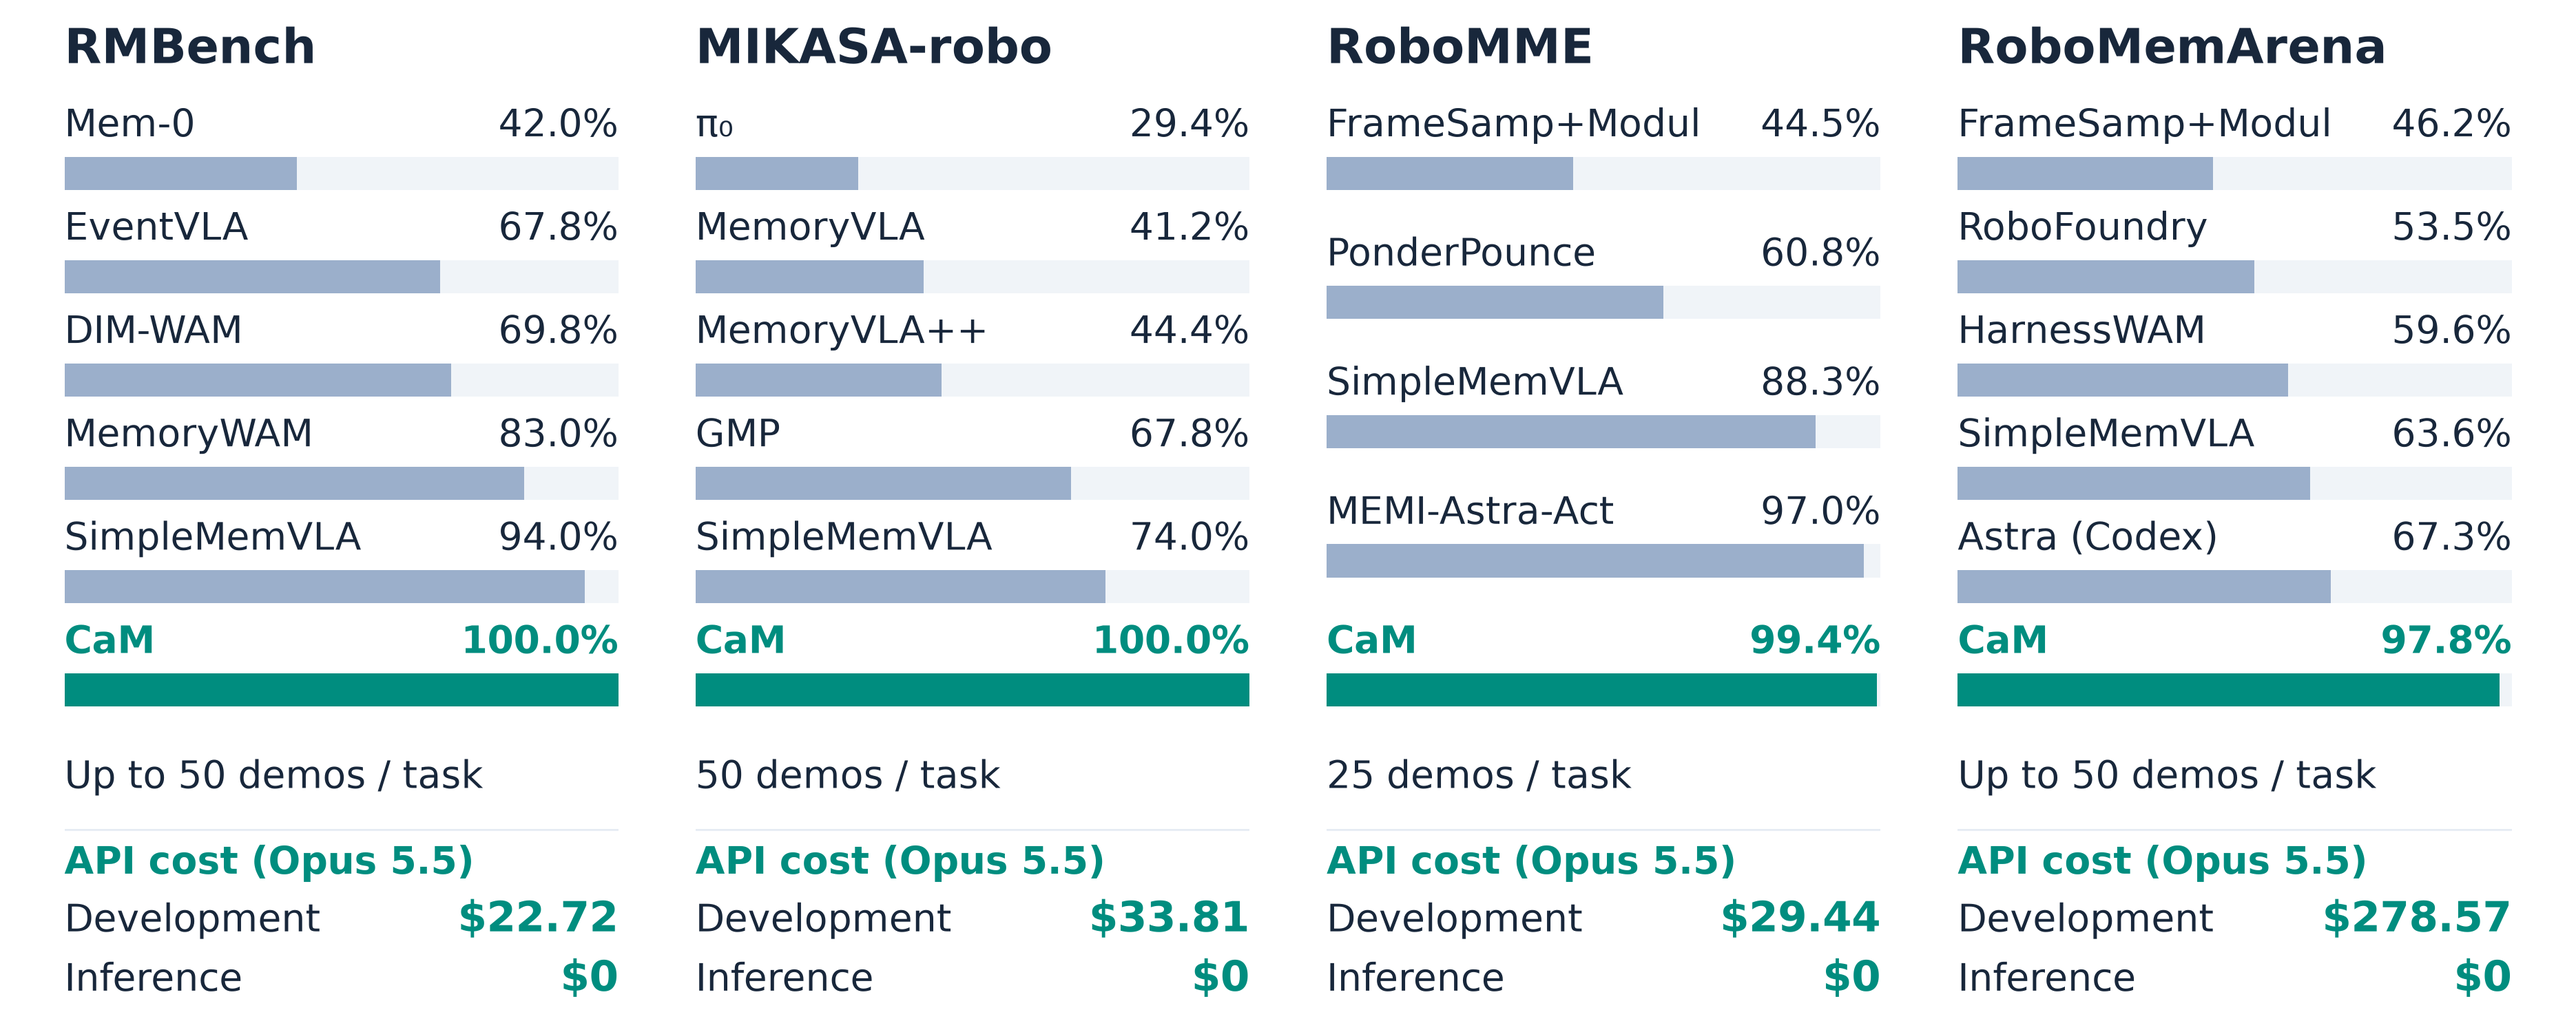
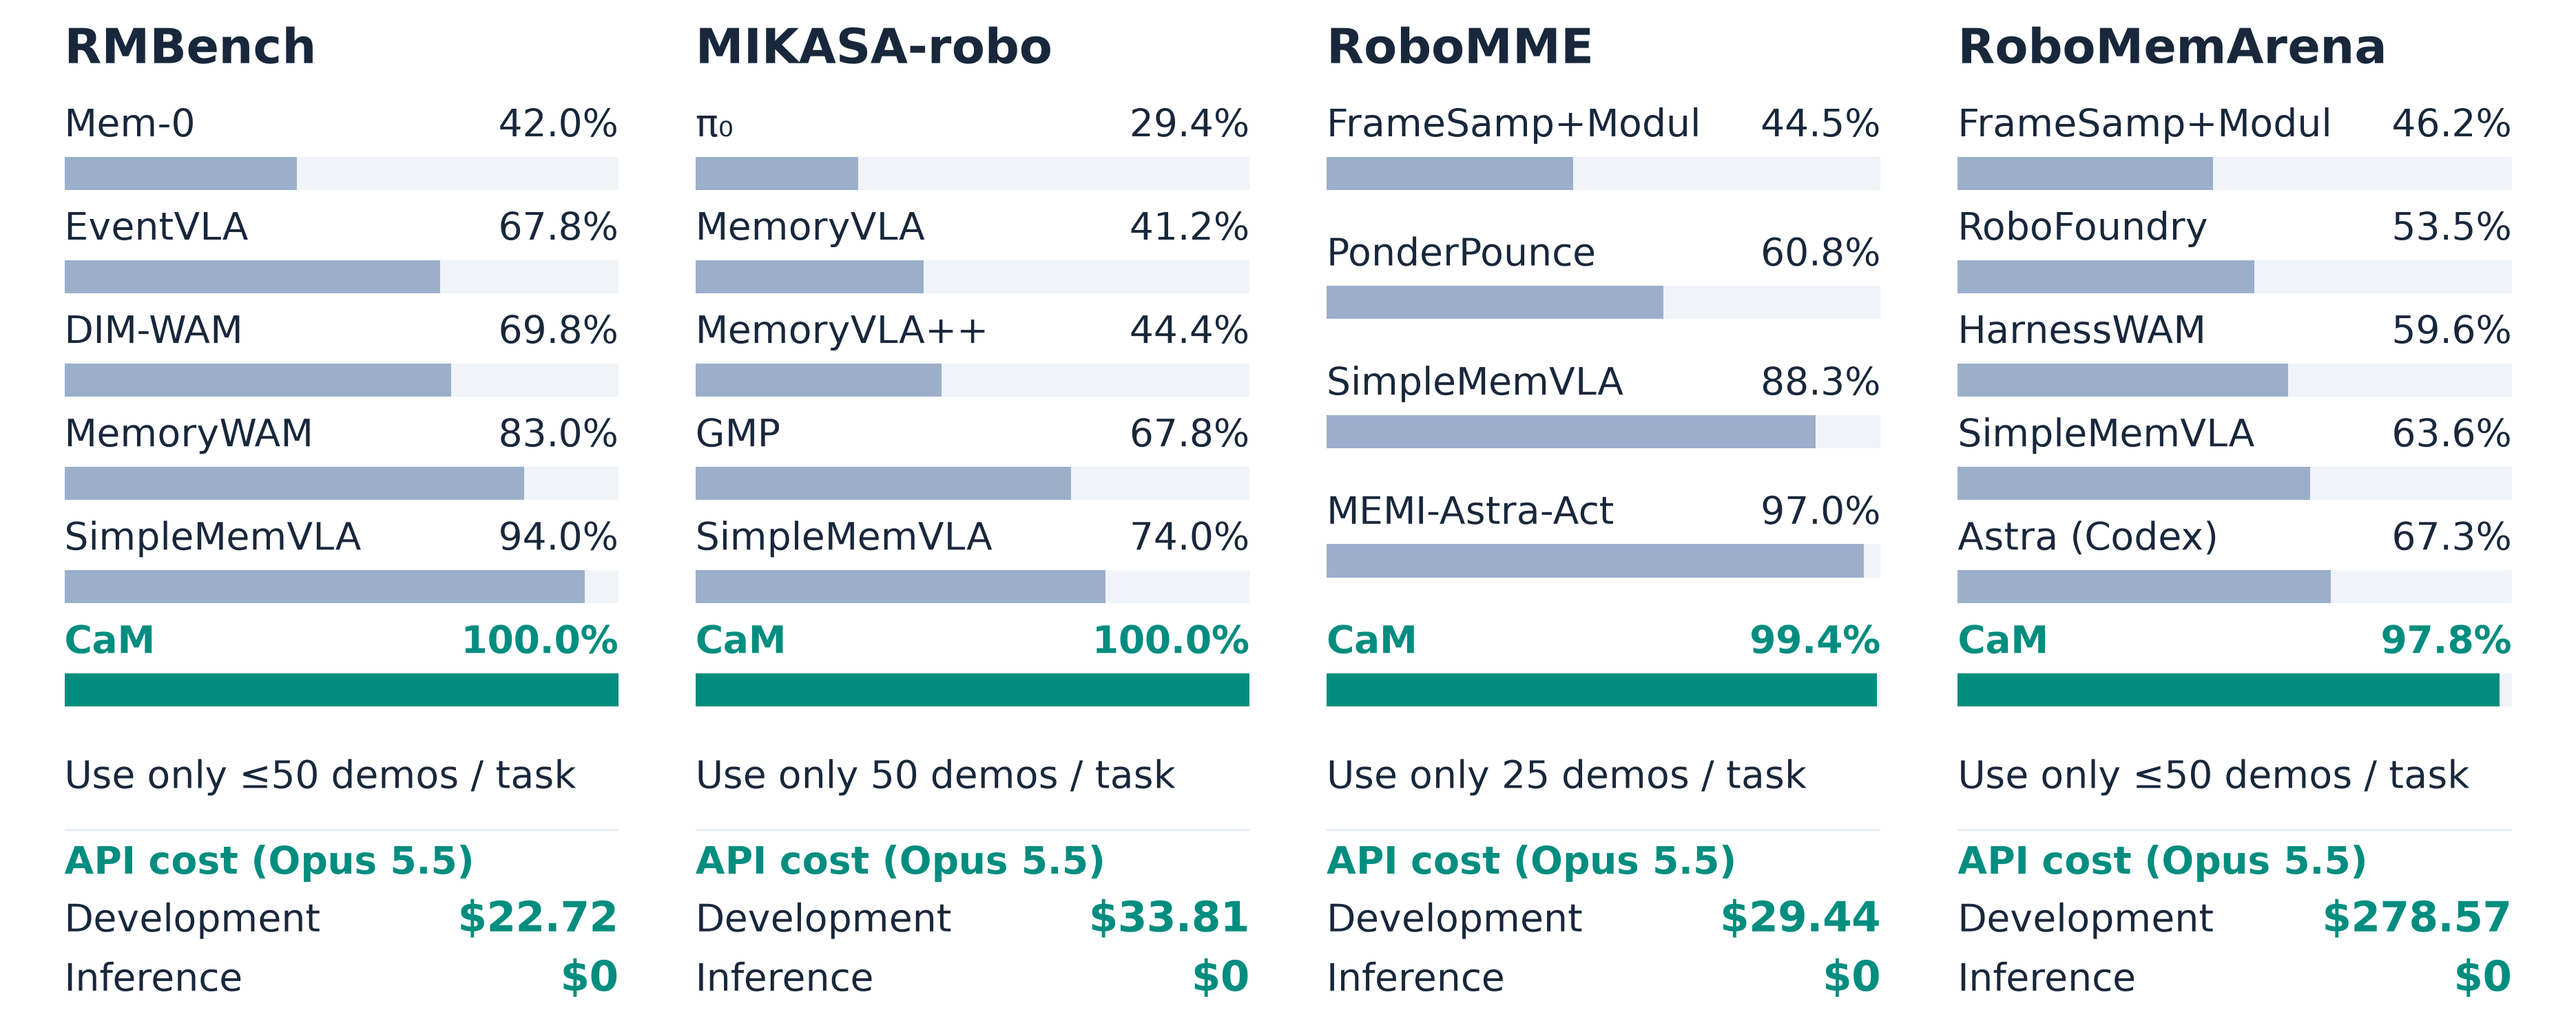
Emphasize limited demonstrations in comparison figure

diff --git a/scripts/plot_public_results.py b/scripts/plot_public_results.py
@@ -67,8 +67,8 @@ def benchmark_comparison():
         demo_counts = {task["demonstrations"] for task in cam_row["per_task"].values()}
         demo_label = f"{max(demo_counts)} demos / task"
         if len(demo_counts) > 1:
-            demo_label = "Up to " + demo_label
-        fig.text(left, .235, demo_label, fontsize=18, color=INK)
+            demo_label = "≤" + demo_label
+        fig.text(left, .235, "Use only " + demo_label, fontsize=18, color=INK)
         cost = costs[panel["benchmark"]]
         footer = fig.add_axes([left, .035, width, .16])
         footer.set_xlim(0, 1)

diff --git a/README.md b/README.md
@@ -2,7 +2,7 @@
 
 **What if robot memory could just be an executable Python program?**
 
-**Code-as-Memory (CaM)** introduces **executable code as explicit, persistent robot memory**. A coding agent distills demonstrations into a Python program that maintains and updates memory through structured variables (e.g., `dict`, `list`), enabling robots to **remember, reason, and act** without relying on neural memory mechanisms.
+**Code-as-Memory (CaM)** introduces **executable code as explicit, persistent robot memory**. A coding agent distills demonstrations into a Python program that maintains and updates memory through structured variables (e.g., `dict`, `list`), enabling robots to **perceive, remember, reason and act** entirely through Python execution, without relying on any external models during inference.
 
 ⚡ **No Training. No Model Calls. Near-Zero Latency.**
 - **No model training** during development
